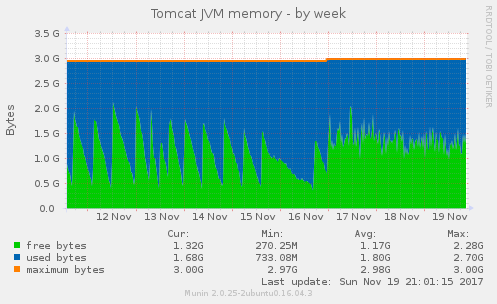
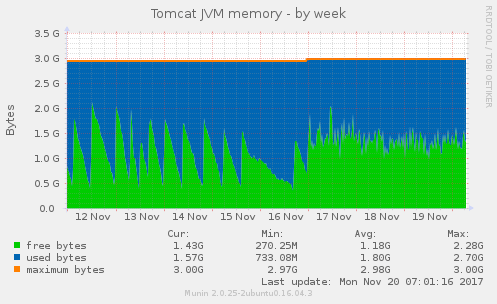
Update notes

diff --git a/public/2017-11/index.html b/public/2017-11/index.html
@@ -38,7 +38,7 @@ COPY 54701
 
 <meta property="article:published_time" content="2017-11-02T09:37:54&#43;02:00"/>
 
-<meta property="article:modified_time" content="2017-11-19T16:11:12&#43;02:00"/>
+<meta property="article:modified_time" content="2017-11-19T23:10:58&#43;02:00"/>
 
 
 
@@ -86,9 +86,9 @@ COPY 54701
   "@type": "BlogPosting",
   "headline": "November, 2017",
   "url": "https://alanorth.github.io/cgspace-notes/2017-11/",
-  "wordCount": "4312",
+  "wordCount": "4327",
   "datePublished": "2017-11-02T09:37:54&#43;02:00",
-  "dateModified": "2017-11-19T16:11:12&#43;02:00",
+  "dateModified": "2017-11-19T23:10:58&#43;02:00",
   "author": {
     "@type": "Person",
     "name": "Alan Orth"
@@ -924,6 +924,10 @@ dspace6=# CREATE EXTENSION pgcrypto;
 
 <p><img src="/cgspace-notes/2017/11/jconsole-sessions.png" alt="Jconsole sessions for XMLUI" /></p>
 
+<ul>
+<li>Switch DSpace Test to using the G1GC for JVM so I can see what the JVM graph looks like eventually, and start evaluating it for production</li>
+</ul>
+
 <h2 id="2017-11-19">2017-11-19</h2>
 
 <ul>
@@ -972,10 +976,10 @@ $ grep -c com.atmire.utils.UpdateSolrStatsMetadata dspace.log.2017-11-19
 </code></pre>
 
 <ul>
-<li>It&rsquo;s been a few days since I enabled the G1GC on DSpace Test, the JVM graph definitely changed, but I can&rsquo;t remember which day I made the change!</li>
+<li>It&rsquo;s been a few days since I enabled the G1GC on DSpace Test and the JVM graph definitely changed:</li>
 </ul>
 
-<p><a href="/cgspace-notes/2017/11/tomcat-jvm-g1gc.png">!Tomcat G1GC</a></p>
+<p><img src="/cgspace-notes/2017/11/tomcat-jvm-g1gc.png" alt="Tomcat G1GC" /></p>
 
   
 

diff --git a/content/post/2017-11.md b/content/post/2017-11.md
@@ -694,6 +694,8 @@ $ jconsole -J-DsocksProxyHost=localhost -J-DsocksProxyPort=7777 service:jmx:rmi:
 
 ![Jconsole sessions for XMLUI](/cgspace-notes/2017/11/jconsole-sessions.png)
 
+- Switch DSpace Test to using the G1GC for JVM so I can see what the JVM graph looks like eventually, and start evaluating it for production
+
 ## 2017-11-19
 
 - Linode sent an alert that CGSpace was using a lot of CPU around 4–6 AM
@@ -737,6 +739,6 @@ $ grep -c com.atmire.utils.UpdateSolrStatsMetadata dspace.log.2017-11-19
 2017-11-19 03:00:32,807 ERROR org.apache.pdfbox.filter.FlateFilter @ FlateFilter: stop reading corrupt stream due to a DataFormatException
 ```
 
-- It's been a few days since I enabled the G1GC on DSpace Test, the JVM graph definitely changed, but I can't remember which day I made the change!
+- It's been a few days since I enabled the G1GC on DSpace Test and the JVM graph definitely changed:
 
-[!Tomcat G1GC](/cgspace-notes/2017/11/tomcat-jvm-g1gc.png)
+![Tomcat G1GC](/cgspace-notes/2017/11/tomcat-jvm-g1gc.png)
